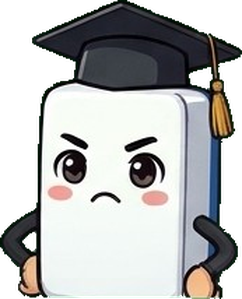
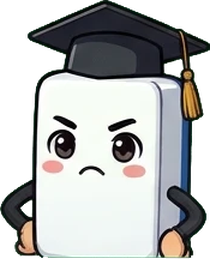
mahjong: new teacher cutouts (clean alpha), many expressions by situation, greeting / riichi warning & cheer
Claude-Session: https://claude.ai/code/session_015fwoRN5EZXb2K7SzR6LxUP

diff --git a/mahjong/js/ui.js b/mahjong/js/ui.js
@@ -533,9 +533,25 @@
     },
     /* 先生(麻雀牌のキャラ)。表情ごとに、数枚から選ぶ */
     teacherImg(mood, cls = '') {
-      const M = { ok: ['21', '32'], pass: ['25', '24', '34'], advice: ['16', '26', '36'], ron: ['33', '23'], kan: ['14', '15'], pon: ['11', '31'], chi: ['12', '22'] };
+      // 表情ごとに、使える絵を、たくさん持っておく(毎回、同じ顔にならないように、かぶらない順で選ぶ)
+      const M = {
+        ok: ['21', '22', '31', '32', '35'],          // おすすめ・ほめる
+        pass: ['15', '25', '24', '34', '12'],        // 見送り・注意
+        advice: ['26', '36', '16', '13', '12'],      // ふつうのアドバイス
+        aim: ['16', '13', '26', '36', '12'],         // 目指す手
+        warn: ['24', '34', '25', '15'],              // 危ない(相手のリーチなど)
+        cheer: ['35', '31', '21', '32', '22'],       // 応援
+        greet: ['14', '21', '11', '36'],             // あいさつ
+        ron: ['23', '33', '35', '11'],
+        kan: ['14', '15', '24'],
+        pon: ['11', '31'], chi: ['12', '22'],
+      };
       const a = M[mood] || M.advice;
-      return `<img class="tcut ${cls}" src="img/teacher/t${a[Math.floor(Math.random() * a.length)]}.png" alt="">`;
+      const last = (this._tLast = this._tLast || {});
+      let pick = a[Math.floor(Math.random() * a.length)];
+      if (a.length > 1 && pick === last[mood]) pick = a[(a.indexOf(pick) + 1) % a.length];
+      last[mood] = pick;
+      return `<img class="tcut ${cls}" src="img/teacher/t${pick}.png" alt="">`;
     },
     /* 先生が、ときどき出てきて「目指す手」を教える(先生ありのときだけ。25秒以上あけて、確率でたまに) */
     maybeAim(game, p) {
@@ -546,7 +562,7 @@
       const h = MJ.Coach.aimHint(game, p);
       if (!h || h.name === this._aimLast) return;
       this._aimAt = now; this._aimLast = h.name;
-      this.teacherSay(h.text, 'advice', 7000);
+      this.teacherSay(h.text, 'aim', 7000);
     },
     /* 先生の置き場所: 左下の、手牌の上(いつもは「切る牌をタップ」の表示がある所)。プレイの邪魔にならない場所に固定 */
     teacherSay(text, mood, ms = 6000, kind = 'tip') {
@@ -982,6 +998,10 @@
       // 顔は、鳴き・リーチ・和了のこの瞬間にだけ、その席のそばに大きく出す
       const host = $('#says');
       host.querySelectorAll('.shout').forEach((x) => x.remove());
+      if (this.hintOn && text === 'リーチ' && !game.fast) { // 先生: 相手のリーチには注意、自分のリーチには応援
+        const msg = p.isHuman ? 'リーチ! いい形です。がんばって!' : 'リーチに注意! 安全な牌を切りましょう。';
+        setTimeout(() => { if (!(this.sel && this.sel.type === 'react')) this.teacherSay(msg, p.isHuman ? 'cheer' : 'warn', 6000); }, 900);
+      }
       this.clearSeat(p.seat); // 同じ席のセリフの顔が残っていたら消す
       const el = document.createElement('div');
       el.className = `shout sh${p.seat}`;
@@ -1014,6 +1034,7 @@
       setTimeout(() => el.remove(), 2600);
     },
     handStart(game) {
+      if (this.hintOn && game.honba === 0 && game.kyoku === 0) setTimeout(() => this.teacherSay('先生がついています。迷ったら、おしえます!', 'greet', 4500), 800);
       MJ.SFX.play('start');
       const tip = MJ.Coach.startTip(game);
       this.tipHtml = `<div class="cc rec"><div class="cc-h">💡 この局のポイント</div><div class="cc-b">${tip}</div></div>`;
